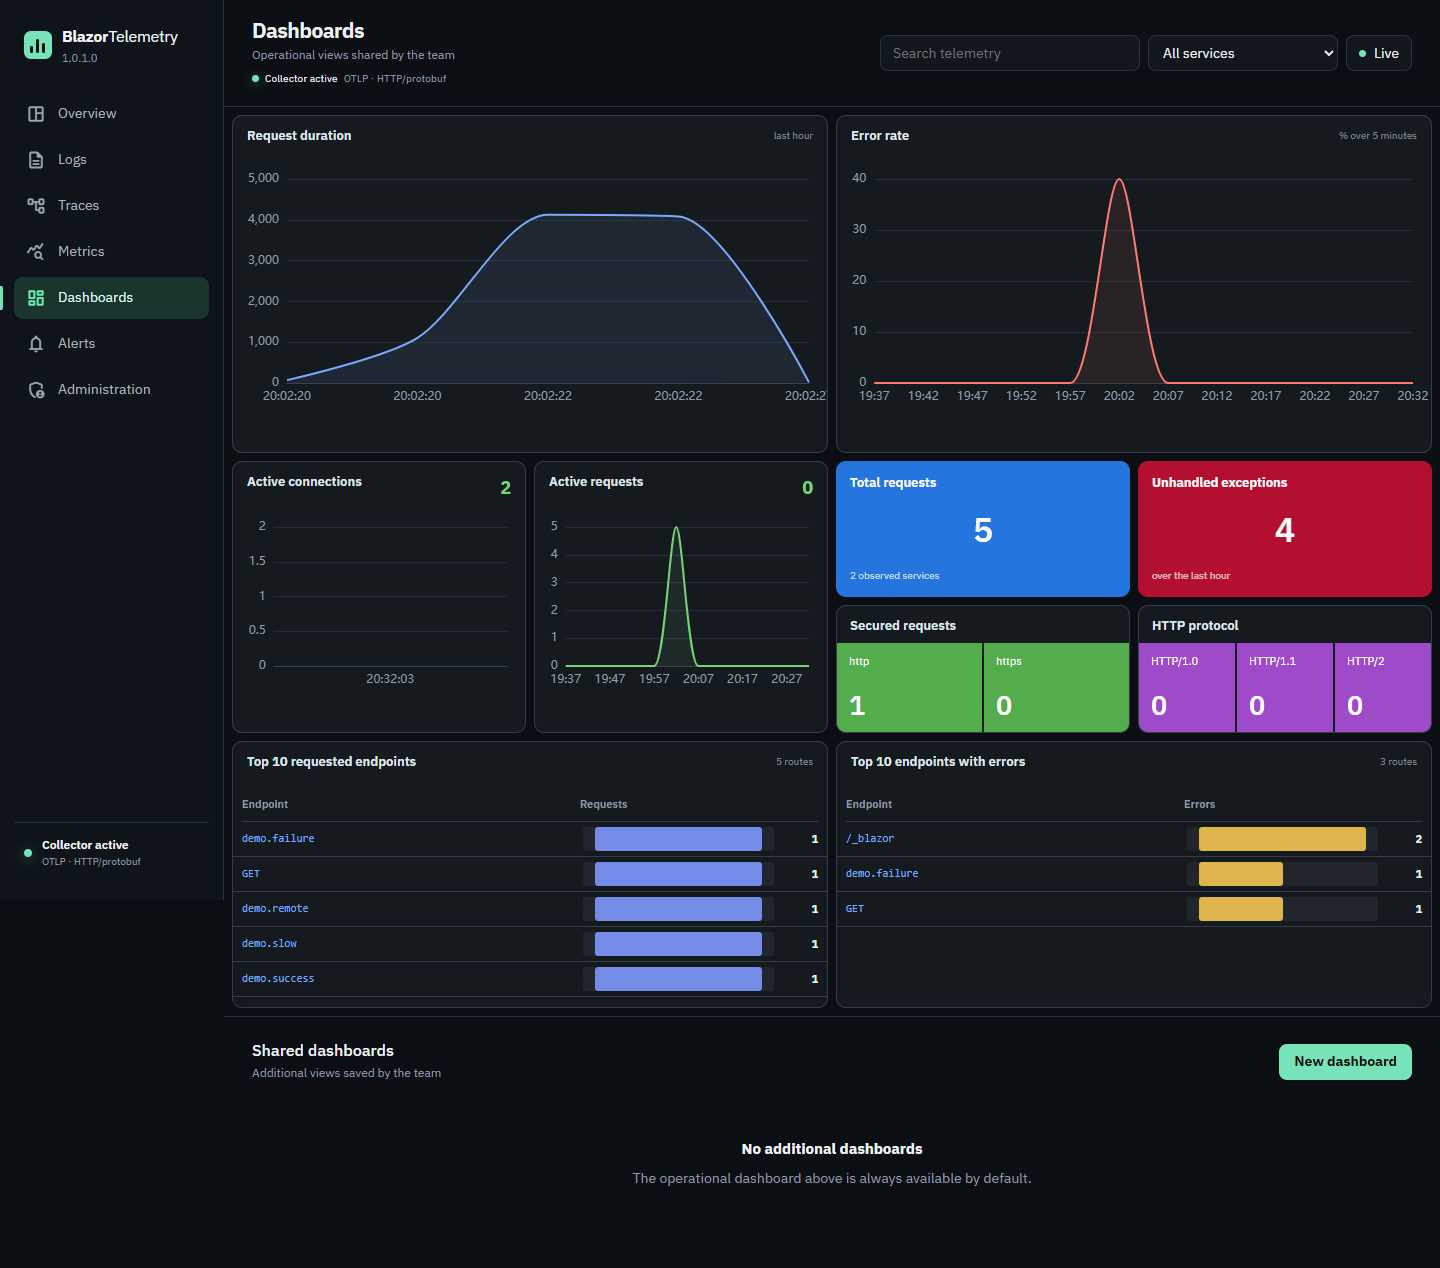
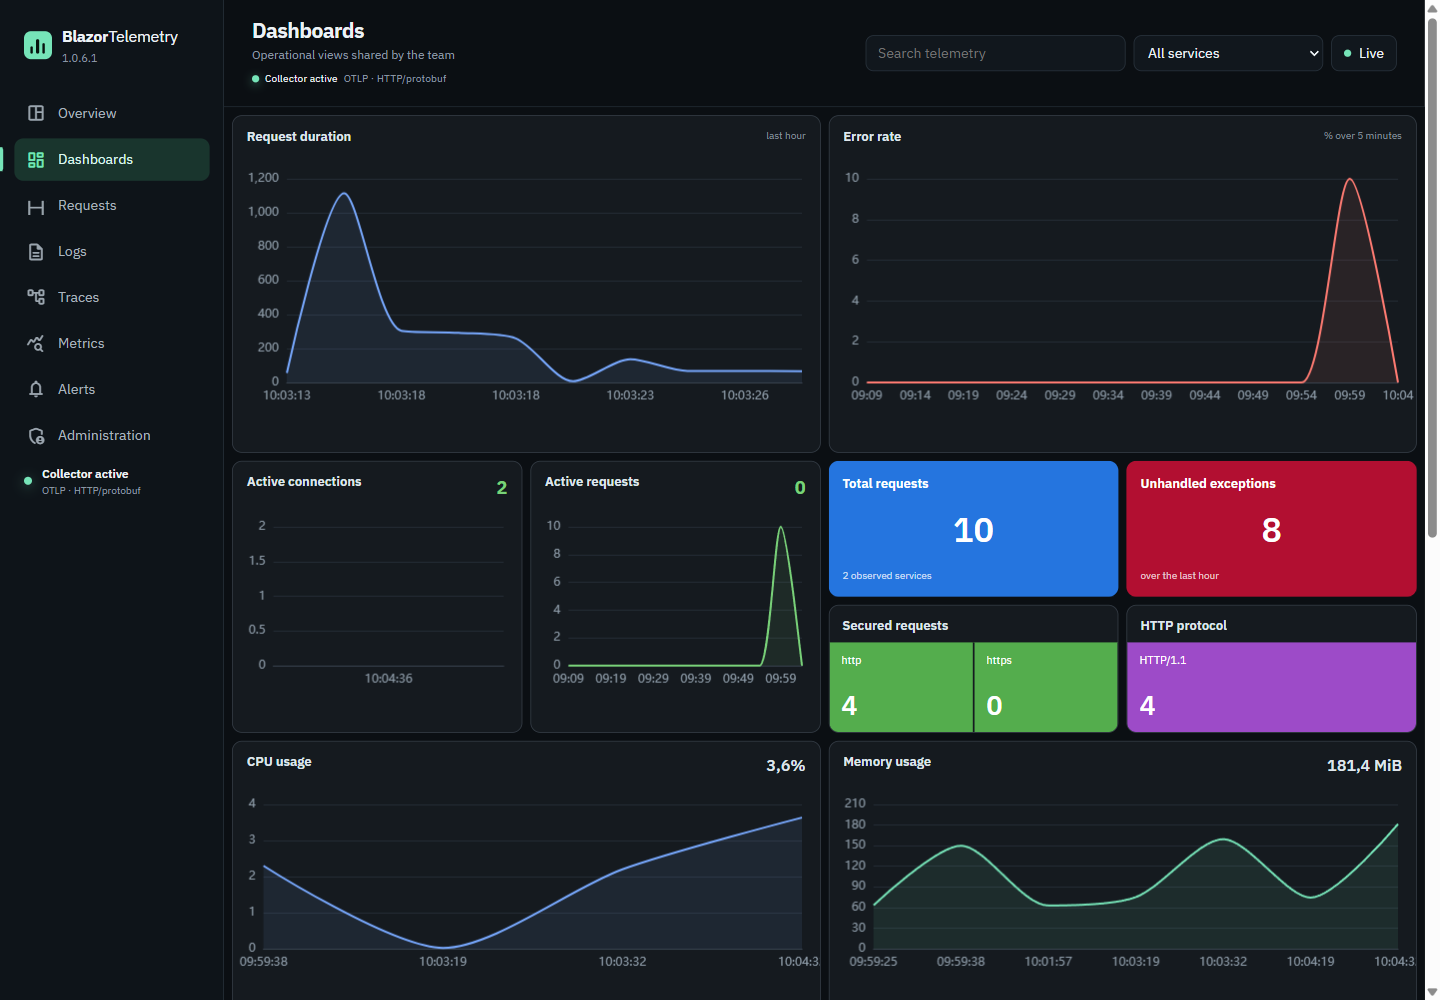
improve readme + remove internal trafic

diff --git a/src/BlazorTelemetry.Tests/TelemetryRepositoryTests.cs b/src/BlazorTelemetry.Tests/TelemetryRepositoryTests.cs
@@ -96,6 +96,28 @@ public sealed class TelemetryRepositoryTests : IAsyncLifetime
     }
 
     [Fact]
+    public async Task QueryCanExcludeRequestsFromTheHostingApplicationBeforePagination()
+    {
+        var repository = new TelemetryRepository(new TestDbContextFactory(_options));
+        var timestamp = DateTimeOffset.UtcNow;
+        await repository.Store([
+            new TelemetryItem { Kind = TelemetryKind.Request, TimestampUtc = timestamp.AddSeconds(2), ObservedUtc = timestamp, ServiceName = "BlazorTelemetry.Host", Name = "https://telemetry.example.com/" },
+            new TelemetryItem { Kind = TelemetryKind.Request, TimestampUtc = timestamp.AddSeconds(1), ObservedUtc = timestamp, ServiceName = "BlazorTelemetry.Host", Name = "http://localhost:8080/health/live" },
+            new TelemetryItem { Kind = TelemetryKind.Request, TimestampUtc = timestamp, ObservedUtc = timestamp, ServiceName = "Customer.WebApp", Name = "https://customer.example.com/orders" }
+        ], CancellationToken.None);
+
+        var page = await repository.Query(new TelemetryQuery(
+            TelemetryKind.Request,
+            Take: 1,
+            ExcludedServiceName: "BlazorTelemetry.Host"), CancellationToken.None);
+
+        var item = Assert.Single(page.Items);
+        Assert.Equal("Customer.WebApp", item.ServiceName);
+        Assert.Equal(1, page.Total);
+        Assert.False(page.IsTruncated);
+    }
+
+    [Fact]
     public async Task StoreDeduplicatesIdentifiableItemsAndKeepsLegitimateDuplicateLogs()
     {
         var repository = new TelemetryRepository(new TestDbContextFactory(_options));

diff --git a/src/BlazorTelemetry.Sqlite/TelemetryRepository.cs b/src/BlazorTelemetry.Sqlite/TelemetryRepository.cs
@@ -110,6 +110,11 @@ public sealed class TelemetryRepository(IDbContextFactory<TelemetryDbContext> co
             source = source.Where(item => item.ServiceName == query.ServiceName);
         }
 
+        if (!string.IsNullOrWhiteSpace(query.ExcludedServiceName))
+        {
+            source = source.Where(item => item.ServiceName != query.ExcludedServiceName);
+        }
+
         if (!string.IsNullOrWhiteSpace(query.TraceId))
         {
             source = source.Where(item => item.TraceId == query.TraceId);

diff --git a/src/BlazorTelemetry.Core/TelemetryQuery.cs b/src/BlazorTelemetry.Core/TelemetryQuery.cs
@@ -10,4 +10,5 @@ public sealed record TelemetryQuery(
     int Skip = 0,
     int Take = 100,
     int? MinimumSeverityNumber = null,
-    int? MaximumSeverityNumber = null);
+    int? MaximumSeverityNumber = null,
+    string? ExcludedServiceName = null);

diff --git a/README.md b/README.md
@@ -31,6 +31,10 @@ BlazorTelemetry is designed for small .NET teams that need to understand their a
 
 ## Product tour
 
+Move from the service overview to operational dashboards, structured logs, distributed traces, and metrics without leaving the application.
+
+![BlazorTelemetry product tour showing overview, dashboards, logs, traces, and metrics](docs/images/product-tour.gif)
+
 ### Investigate without switching tools
 
 The detail drawer exposes the OTLP level, service, environment, timestamps, attributes, and correlation identifiers. Selecting the `TraceId` opens the related trace directly.
